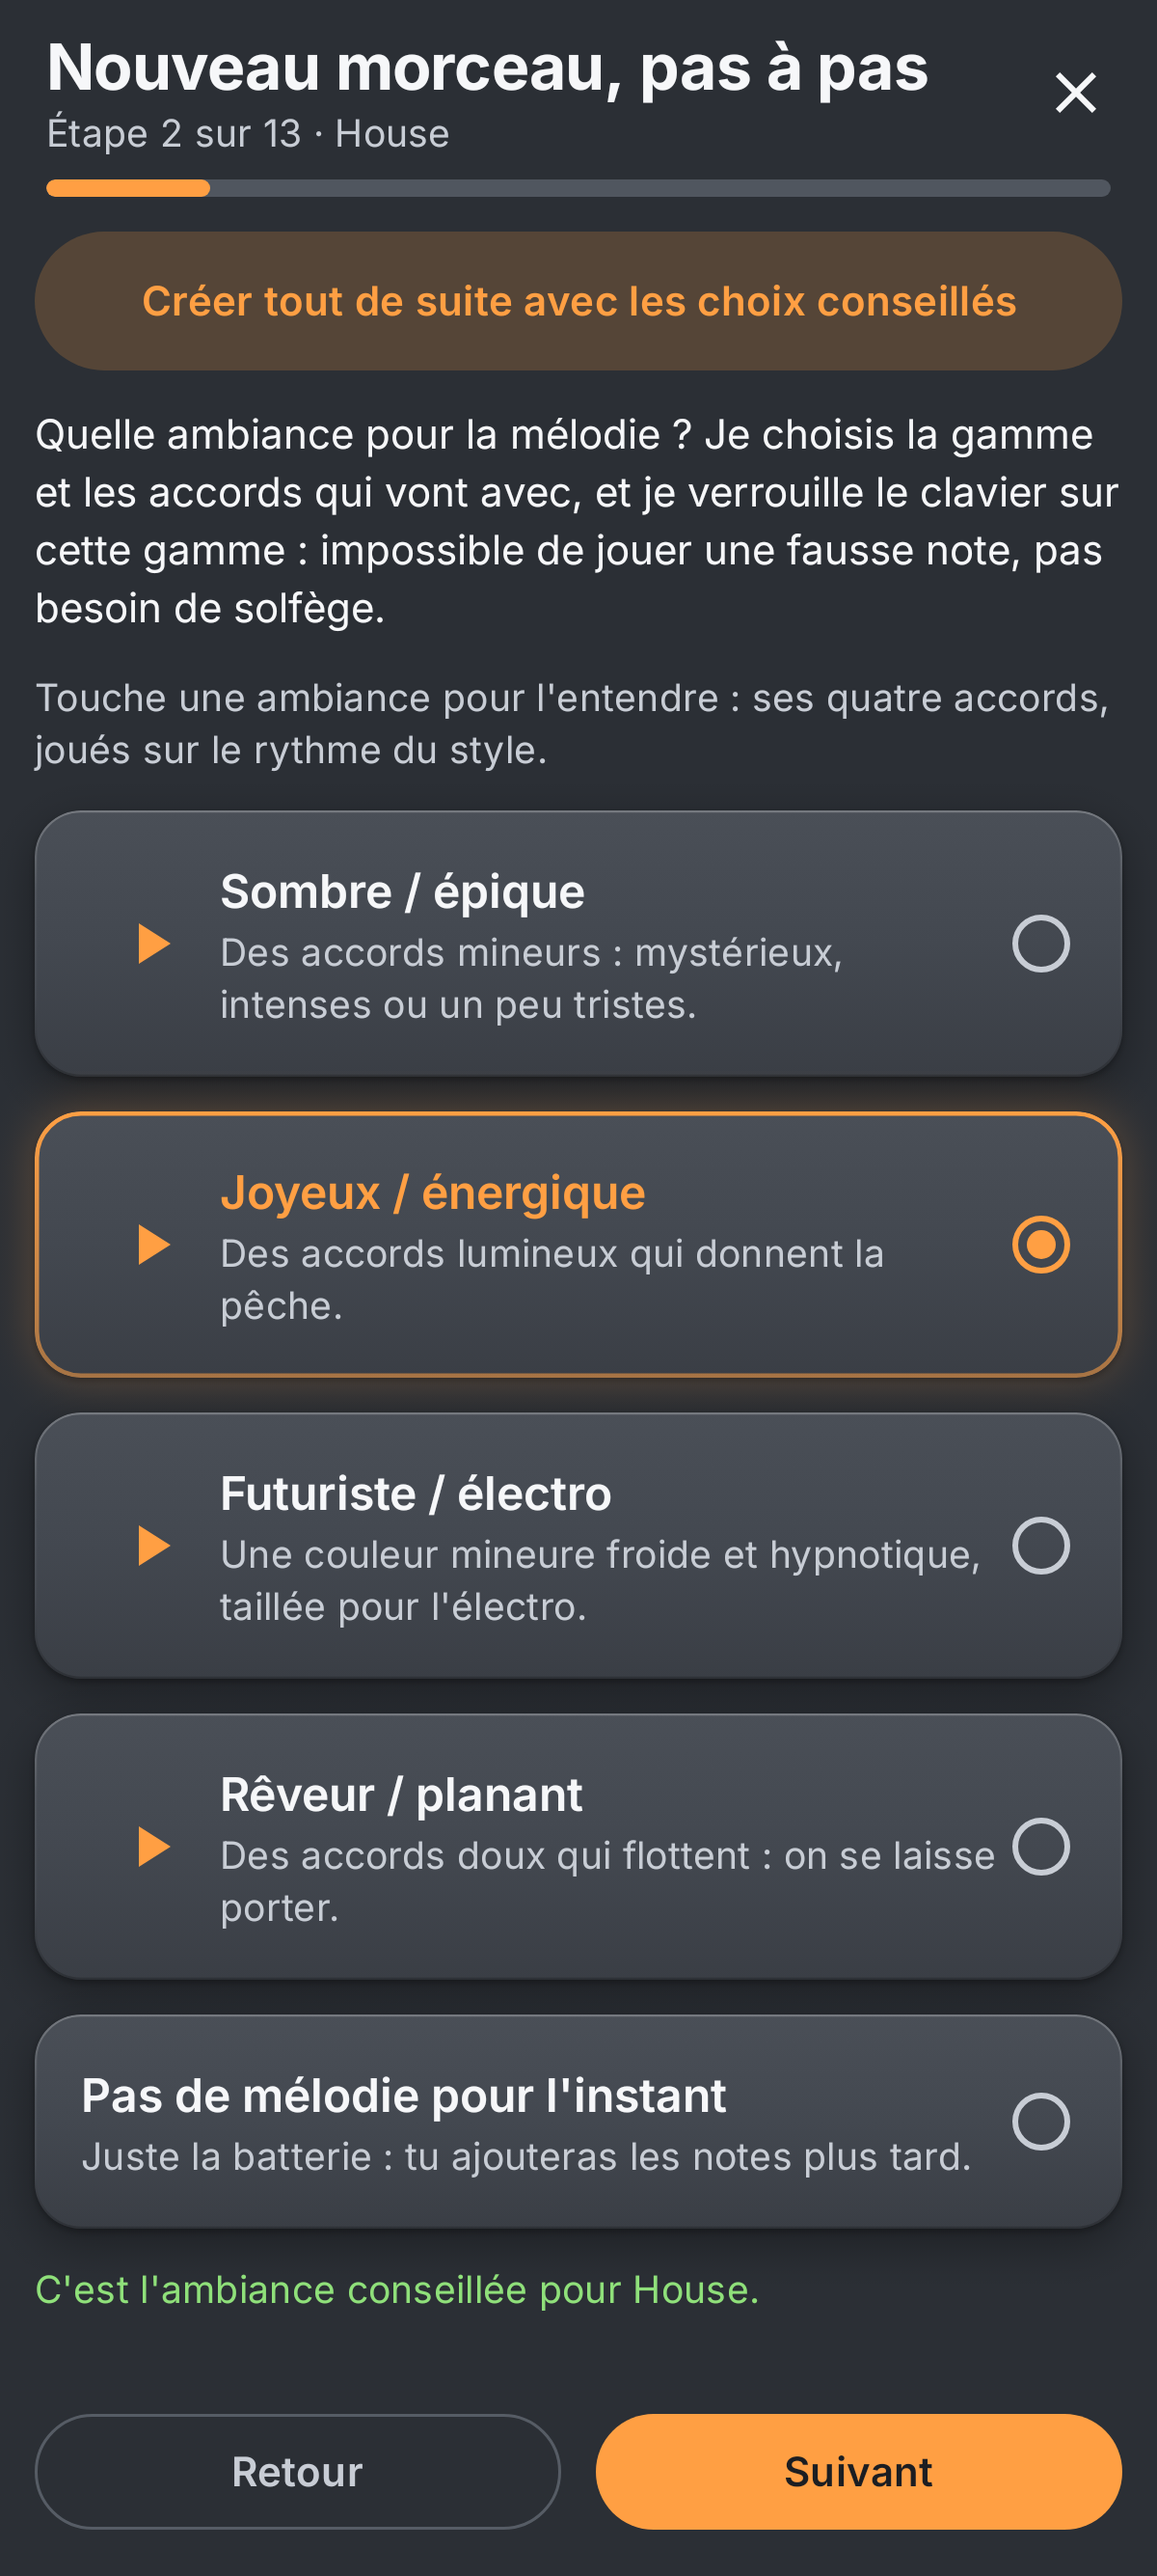
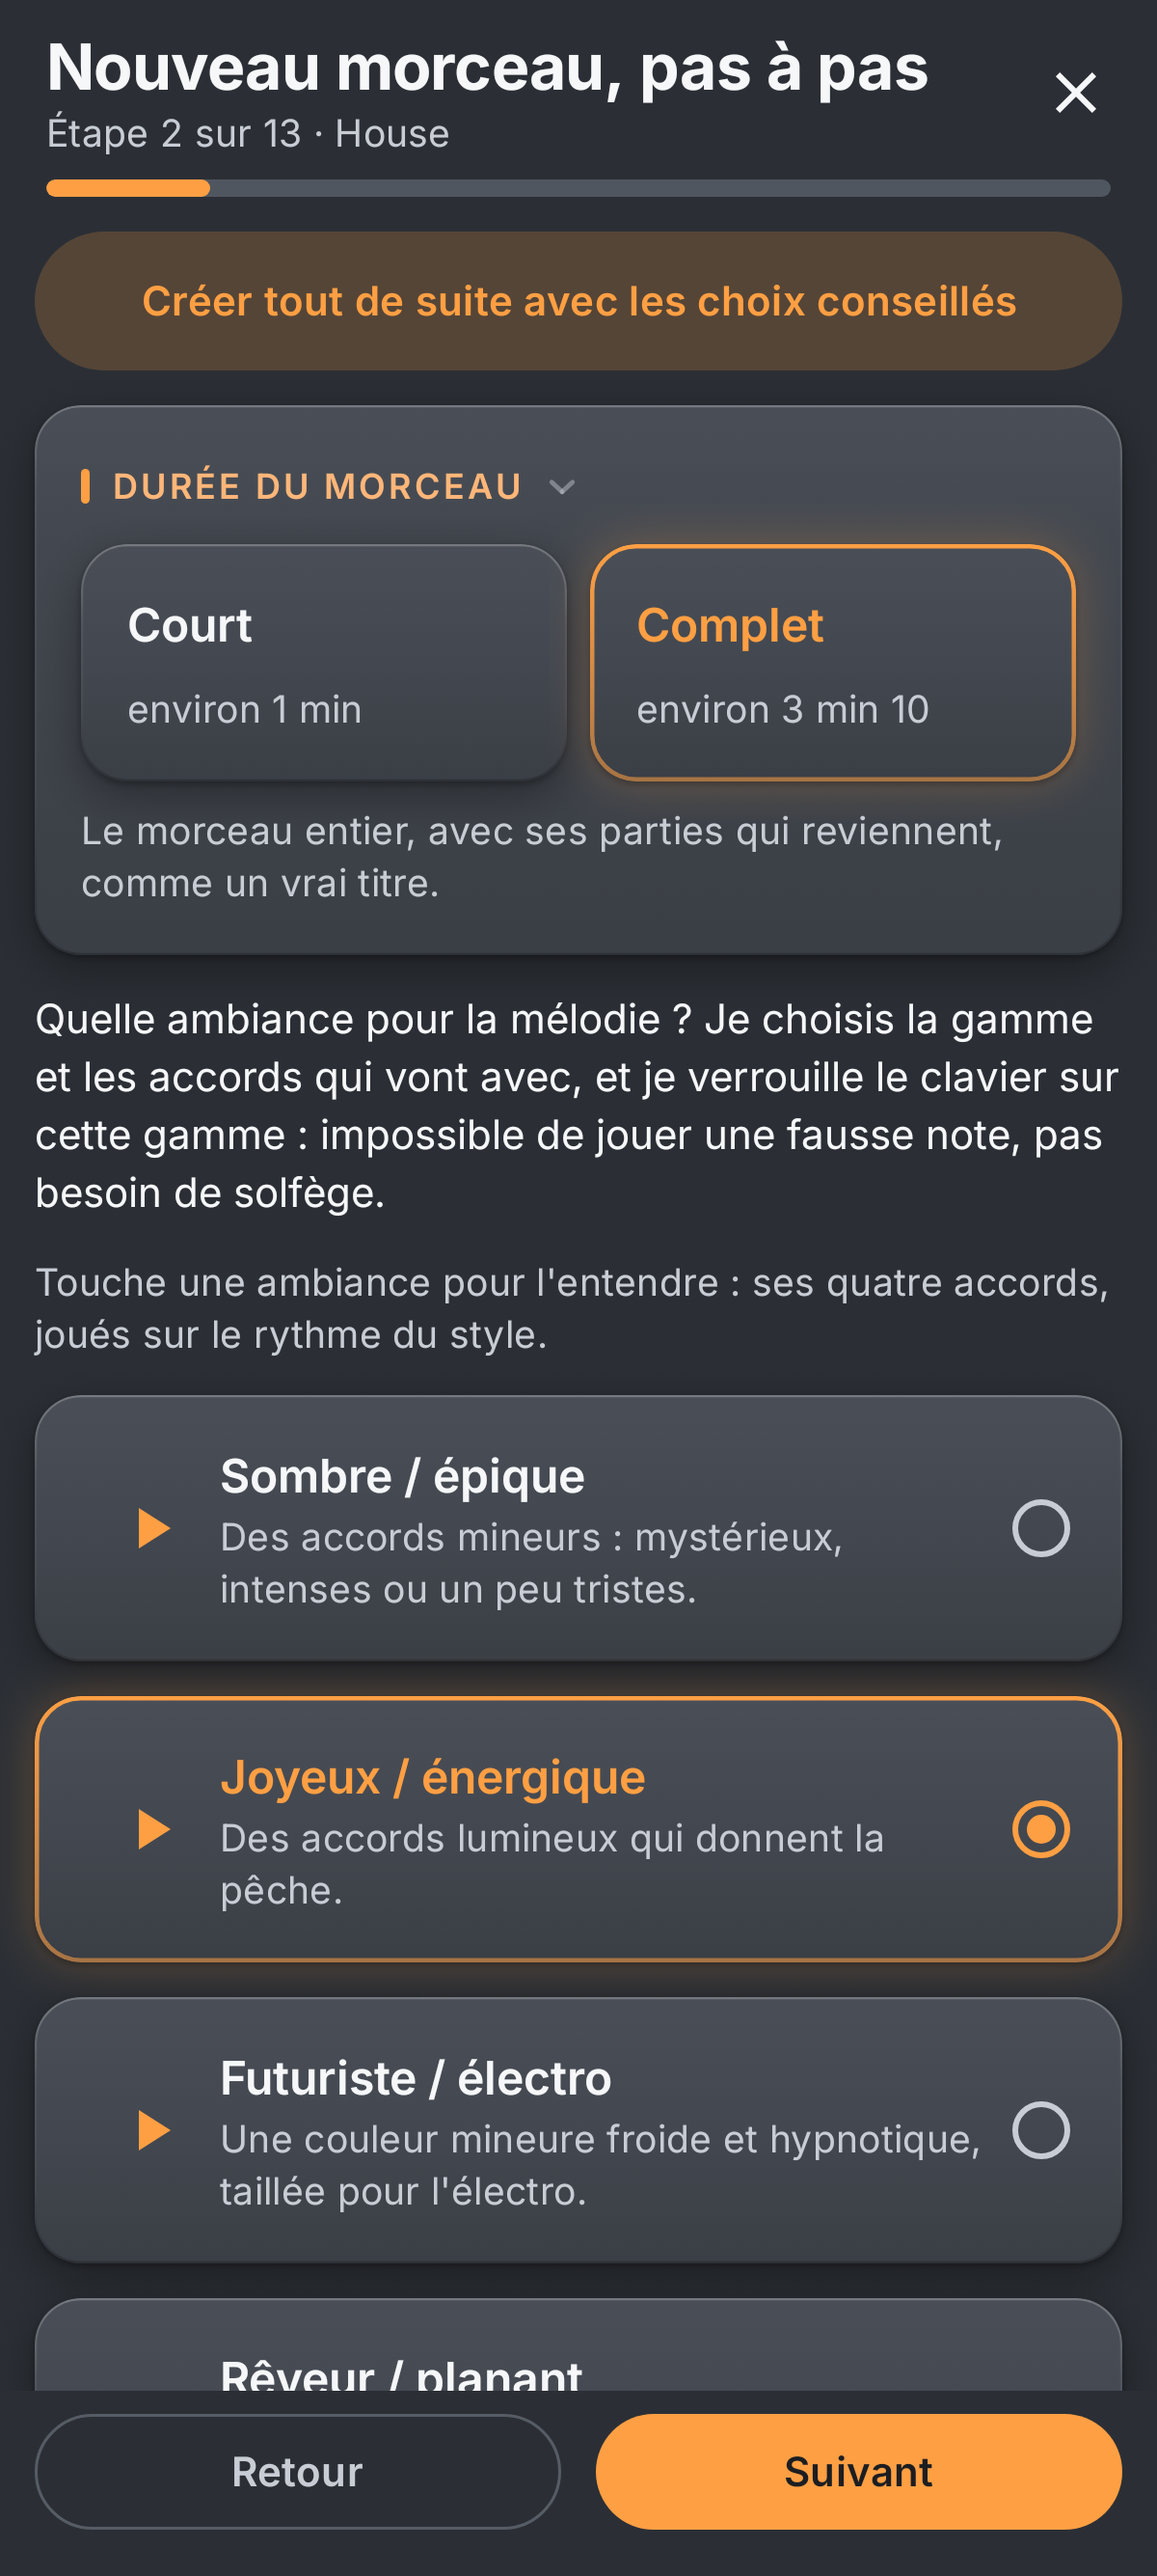
Round 1 zones 5-6: report, decisions, the two screenshots changed (assistant's length, demo caption)
Claude-Session: https://claude.ai/code/session_01NqonxZBBysqqWBbnsC2VTP

diff --git a/docs/audits/ultra/tour-1-zone5-6.md b/docs/audits/ultra/tour-1-zone5-6.md
@@ -1,0 +1,30 @@
+# Audit ultra, tour 1 : zones 5 et 6 (assistant, tutos, sons ; textes, langues, accessibilité)
+
+Équipe 4. Commit principal `05801b8`. Gravités de la synthèse ; « appli » = vrai défaut corrigé, « banc » = vient du banc.
+
+| N° | Verdict | Gravité | Test (échoue avant) | Fait | Reste |
+|---|---|---|---|---|---|
+| 30b, 39 | appli | Moyen ×5 | ScreenScanTest : tout curseur ou interrupteur sans nom refusé, sans plafond ; LayoutScan ne prend plus la valeur (« 0.0 ») pour un nom | 40 contrôles nommés (assistant, Swing, volumes, synthé, master, métronome, MIDI, Remix, export, Pad Live) ; `Modifier.named` | Les valeurs du synthé en % plutôt qu'en Hz/ms |
+| 32 | appli | Moyen ×2 | WizardTracksOfferedTest | La ligne du temps ne montre plus une Acid 303 muette | — |
+| 33 | appli | Moyen ×2 | StarterWizardTest.theShortVersion… | « Court » (20 à 75 s selon le tempo) / « Complet » au départ de l'assistant | — |
+| 34 coup en trop | appli | Moyen | TutoCourseTest (un coup en trop n'est plus réussi) | Barré sur la grille, « 1 coup en trop ici (barré) » | — |
+| 34 cases en pointillé | appli | Moyen | — (état TalkBack) | « vide, en pointillé : à toucher » / « barré : à enlever » | — |
+| 34 Sol♭ / Fa♯ | appli | Moyen | — | Piano roll écrit les touches comme la tonalité | Test dédié à ajouter |
+| 34 plus haut ↑ | appli | Moyen | — | « plus haut ↑ / plus bas ↓ » dans la ligne du tuto | Test dédié à ajouter |
+| 34 Montre-moi | banc (le maintien de 3,2 s ne passe pas dans l'horloge du banc ; TutoTest prouve la remise) + clarté appli | Mineur | TutoTest vert | « Voilà. Je remets comme avant… » puis « À toi maintenant » | — |
+| 34 consigne « t… », rangée sous « Partie : A », bravo de chapitre | appli | Grave | — | Non fait | Ligne repliée à 2 lignes, défilement sous l'en-tête collant, bravo + Écouter en fin de chapitre |
+| 34 « Lire la suite » → kit | banc pour le toucher (le texte pris pour la cible) ; appli : la carte du kit arrive tard par-dessus la barre du haut à 200 % | Moyen | — | Non fait | Proposer le kit au début du tuto seulement |
+| 35 fantôme | appli | Moyen | BassGhostTest | La piste Basse en fantôme sans ligne 303 | — |
+| 35 famille | appli | Mineur | TrackSoundFamilyTest | « Changer le son » s'ouvre sur la famille de la piste | — |
+| 35 effets / nom / doublon | appli | Grave | — | Non fait | Le favori garde ses effets, Renommer, « déjà dans tes favoris » |
+| 36 | appli | Moyen | TrackSoundNameTest | La piste montre « Orgue », plus « Synthé » | « Octave 3 » / « Do 4 » |
+| 37 | appli | Moyen | — | Mode simple : kick, charley, triolet, roulement, Drop, penta, phrygienne, contretemps, 808 expliqués sous les textes de l'assistant et du tuto | « FM 6 op. », « Modal (percussion) » à dire en mots simples |
+| 38 | appli | Moyen | — | Non fait | Ajouter les écrans du tuto à 200 % à la matrice CUT |
+| 40 | appli | Mineur | I18nCatalogTest vert pour mes clés | Undo ≠ Cancel (clé « Annuler (défaire) ») ; Stage effects dans 10 langues ; de, es, ar, nl (spoor/nummer), it/pt (Do Re Mi), pl, pt-BR, ja ; référence boom bap neutre ; BENSTUDIO sur la vidéo | Noms de sons du kit (« Caisse claire 1 ») ; « Fechar planilha » = texte de Material ; ja 周波数 pour la fréquence d'échantillonnage |
+| 40 « Créer la vidéo » | banc (NativeEngine absent sous Robolectric, seul cas où le message sort) | — | — | — | Préparer un moteur factice pour la vidéo |
+| 41 | appli | Mineur | — | Non fait | Accueil tablette paysage en deux colonnes, noms de pistes sur deux lignes |
+
+Captures ré-enregistrées et regardées : `wizard_mood` (carte « Durée du morceau »), `tuto_demo_caption`.
+`timeline` et `tuto_new_project` diffèrent aussi, à cause des zones 3 et 28 (pas les miennes).
+Laissés aux autres équipes, non commités : les noms des curseurs de `MasterPro.kt` (fichier réécrit par l'équipe 2), « Annuler (défaire) » dans `ThumbBar.kt` (fichier neuf de l'équipe 3).
+ScreenScanTest : HELP et CONTRAST dépassent leur plafond sur 54 écrans, à cause des contrôles ajoutés par d'autres équipes (barre du Guide, ThumbBar, Pad Live) ; aucun curseur ni interrupteur sans nom.

diff --git a/docs/DECISIONS.md b/docs/DECISIONS.md
@@ -1190,3 +1190,8 @@
 - 2026-11-04 : cache de construction Gradle coupé sur la machine de l'agent seulement (~/.gradle/gradle.properties) : il remplissait le disque (2 à 3 Go en une heure). La CI le garde. Retour arrière : retirer la ligne.
 - 2026-11-04 : tour 1 élargi à 4 lots de 4 (16 testeurs) sur demande de Benjamin, avant le tour 2. Lots C (ado TikTok espagnol, joueur GarageBand anglais tablette défi, guitariste 130 % voix, DJ club paysage Pad Live) et D (2e fan de remix en Simple pour confirmer b#11, parent pressé néerlandais tablette, 2e producteur pliable synthé, anxieux nuit une main). Plafond d'agents de AUDIT-ULTRA §8 dépassé d'autant, accepté par Benjamin.
 - 2026-11-04 : tour 1 porté à 6 lots de 4 (24 testeurs) sur demande de Benjamin (« autant en mettre beaucoup ») : lots E (ado brésilien Pad Live, guitariste italien tablette Pro, 2e enfant lit=non tablette défi, DJ club japonais exports) et F (2e senior 200 % tablette premier morceau, beatmaker anglais Remix en Simple, ingénieur polonais pliable exports, QA 130 % nuit chasse libre). 4 sièges à la fois (maxParallelForks=4, 4 cœurs). Au-delà, le goulot est la correction, pas les testeurs.
+- 2026-11-04 : audit ultra tour 1, n° 30b/39 : la valeur d'un curseur ou d'un interrupteur (« 0.0 », « activé ») n'est plus prise pour son nom ; ScreenScanTest refuse tout curseur ou interrupteur sans nom sur les ~290 écrans (aucun plafond accepté) ; les 40 trouvés nommés. Retour arrière : enlever `valued` de LayoutScan.
+- 2026-11-04 : audit ultra tour 1, n° 32-33 : l'assistant propose au départ « Court » (moins d'une minute : intro, montée, moment fort) ou « Complet » ; la ligne du temps ne montre plus une Acid 303 qui ne joue nulle part (comme « Mes pistes »). Retour arrière : `short` de Style, `acidPlays` dans timelineRows.
+- 2026-11-04 : audit ultra tour 1, n° 34 : un coup en trop n'est plus « réussi » (il était toléré) et se montre barré à enlever ; le piano roll écrit les notes comme la tonalité (Sol♭) ; « plus haut ↑ / plus bas ↓ » ; « Montre-moi » dit « À toi » une fois la valeur remise (le 174 BPM resté posé venait de l'horloge du banc). Retour arrière : la tolérance dans laneMatches.
+- 2026-11-04 : audit ultra tour 1, n° 35-37 : une piste montre le nom de son son (« Orgue »), « Changer le son » s'ouvre sur la famille de la piste, « Basse en fantôme » montre la piste Basse sans ligne 303 ; en Mode simple, les mots du métier (kick, Drop, phrygienne…) expliqués sous le texte (PlainWords), aussi dans le tuto.
+- 2026-11-04 : audit ultra tour 1, n° 40 : « Annuler » de la flèche a sa propre clé (« Undo », pas « Cancel ») ; « Effets de scène » = « EFFETS DE SCÈNE » dans toutes les langues ; « spoor » en néerlandais ; référence du boom bap neutre hors français ; l'aperçu vidéo dit BENSTUDIO. « Créer la vidéo » qui échoue : banc (NativeEngine absent sous Robolectric).
